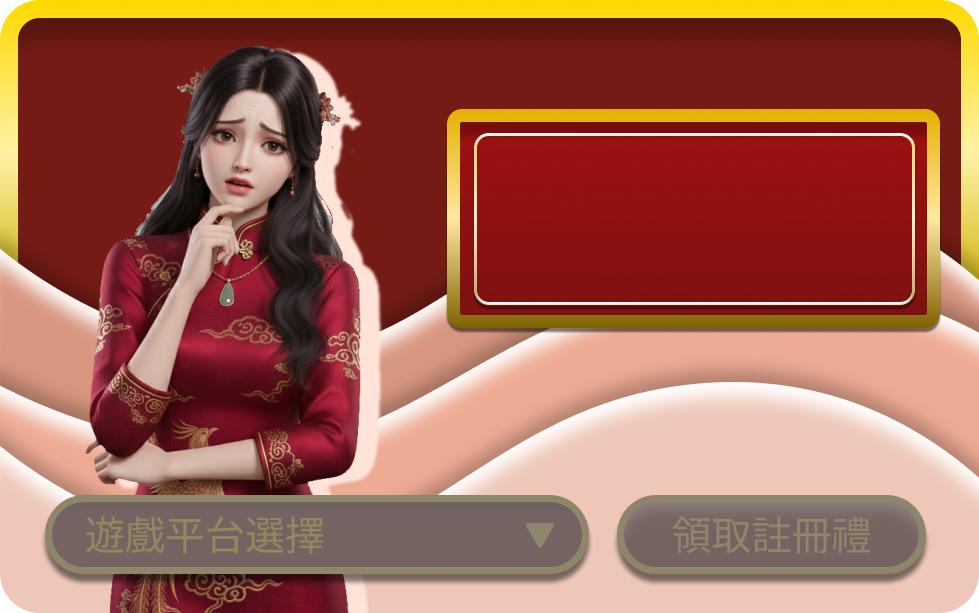
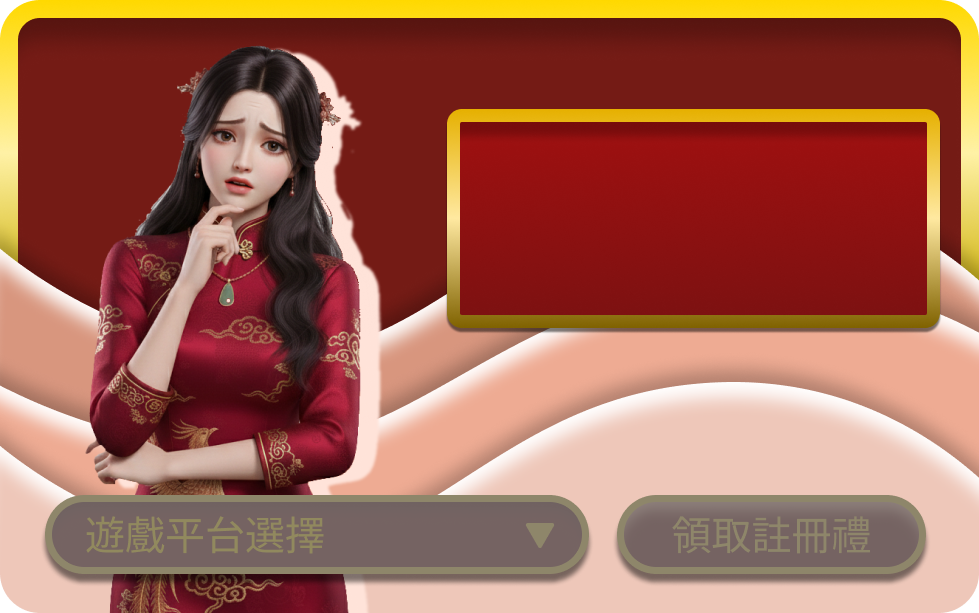
Fixed 0006167: 10月超值豪禮三重奏登入框修改

Changed region(s): [[0.4597, 0.4649, 0.9499, 0.5269], [0.4903, 0.217, 0.9499, 0.248]]

diff --git a/Web/Pmatch/pages/events/3/index.vue b/Web/Pmatch/pages/events/3/index.vue
@@ -61,10 +61,10 @@
             <div :class="registerBackground" class="aspect-[979/613] bg-cover bg-no-repeat bg-center relative [container-type:inline-size] [container-name:register-card]">
               <!-- 是否登入 -->
               <div v-if="!isLoggedIn">
-                <NuxtLink class="absolute top-[27.25%] right-[30.05%] leading-0 text-[6.5cqi] cursor-pointer no-underline flex-inline justify-center items-center border-[0.1cqi] border-solid border-[#FFF4B5] rounded-[0.8cqi] aspect-[181/106] w-[18%] bg-gradient-to-b from-[#E24444] to-[#751313] [box-shadow:0px_0.8cqi_0.8cqi_#480909] hover:from-[#D91124] hover:to-[#D91124] active:from-[#741B15] active:to-[#741B15]" href="/member/login" target="_blank">
+                <NuxtLink class="absolute top-[27.25%] right-[30.75%] leading-0 text-[6.5cqi] cursor-pointer no-underline flex-inline justify-center items-center border-[0.1cqi] border-solid border-[#FFF4B5] rounded-[0.8cqi] aspect-[181/106] w-[18%] bg-gradient-to-b from-[#E24444] to-[#751313] [box-shadow:0px_0.8cqi_0.8cqi_#480909] hover:from-[#D91124] hover:to-[#D91124] active:from-[#741B15] active:to-[#741B15]" href="/member/login" target="_blank">
                   <SignUp class="font-Noto -translate-y-[0.25cqi]" content="登入" />
                 </NuxtLink>
-                <NuxtLink class="absolute top-[27.25%] right-[9.75%]  leading-0 text-[6.5cqi] cursor-pointer no-underline flex-inline justify-center items-center border-[0.1cqi] border-solid border-[#FFF4B5] rounded-[0.8cqi] aspect-[181/106] w-[18%] bg-gradient-to-b from-[#E24444] to-[#751313] [box-shadow:0px_0.8cqi_0.8cqi_#480909] hover:from-[#D91124] hover:to-[#D91124] active:from-[#741B15] active:to-[#741B15]" href="/register" target="_blank">
+                <NuxtLink class="absolute top-[27.25%] right-[9.25%]  leading-0 text-[6.5cqi] cursor-pointer no-underline flex-inline justify-center items-center border-[0.1cqi] border-solid border-[#FFF4B5] rounded-[0.8cqi] aspect-[181/106] w-[18%] bg-gradient-to-b from-[#E24444] to-[#751313] [box-shadow:0px_0.8cqi_0.8cqi_#480909] hover:from-[#D91124] hover:to-[#D91124] active:from-[#741B15] active:to-[#741B15]" href="/register" target="_blank">
                   <SignUp class="font-Noto -translate-y-[0.25cqi]" content="註冊" />
                 </NuxtLink>
               </div>
